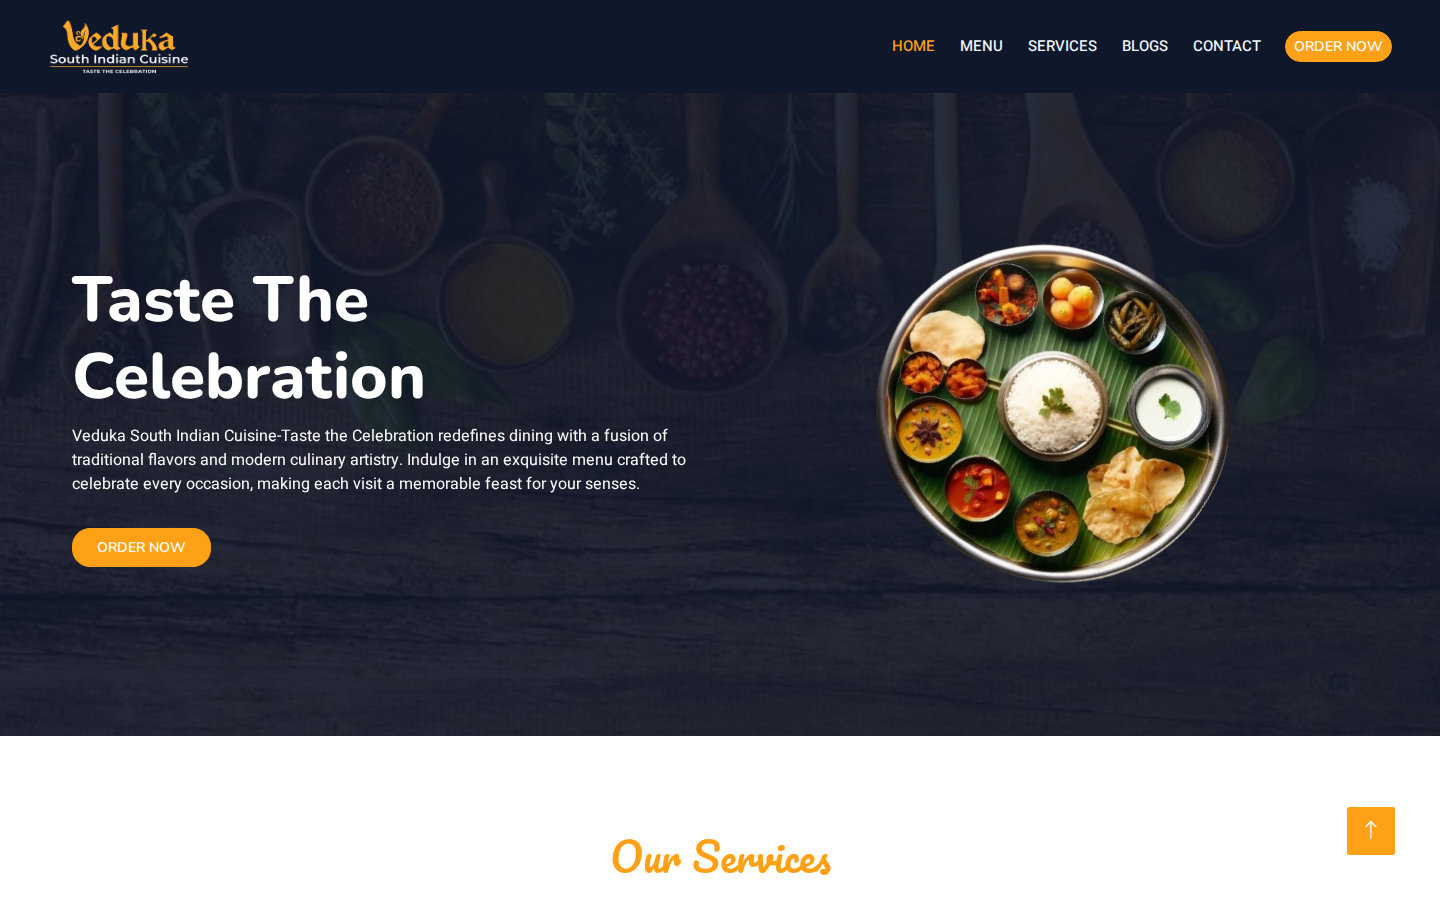
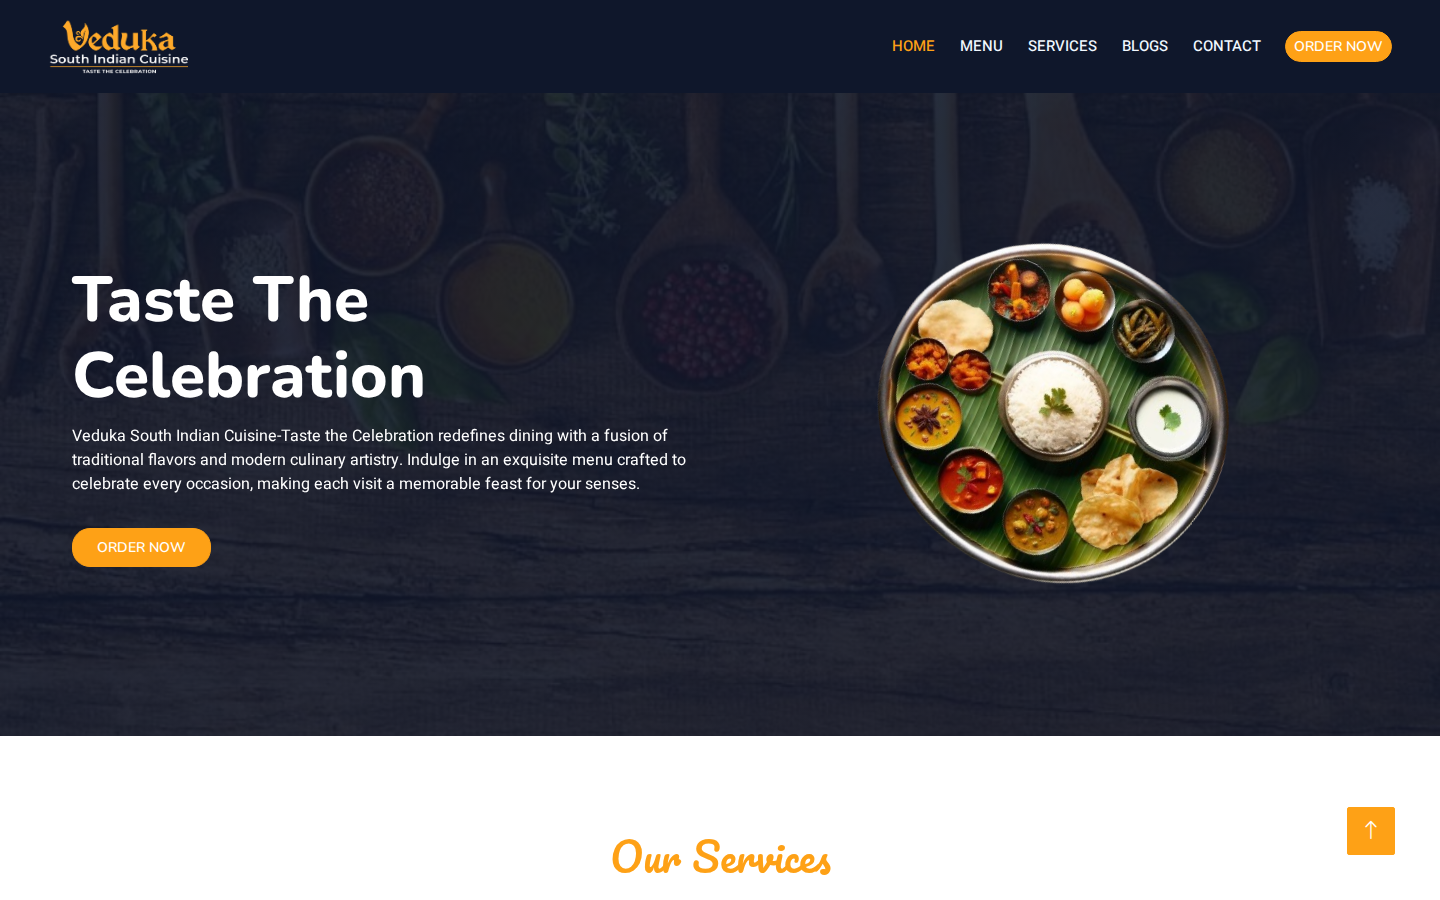
Refine projects and experience per portfolio feedback
Show screenshot-only project previews (no live iframe). Remove TX DESI,
LLM Music Recommendation, NLP4Web, and IBM Data Science entries. Update
German Quiz URL, add CARE open-source contribution, trim experience list,
and simplify Usage AI/ML stack.

Changed region(s): [[0.5938, 0.2489, 0.8438, 0.6533], [0.0625, 0.4044, 0.2188, 0.4356], [0.25, 0.4044, 0.2812, 0.4356]]

diff --git a/app/data/projects.ts b/app/data/projects.ts
@@ -23,7 +23,6 @@ function clientSite(
     slug,
     tagline,
     projectUrl: url,
-    embedUrl: url,
     logo: screenshot,
     coverImage: {
       image: screenshot,
@@ -43,14 +42,6 @@ export const featuredProjects: ProjectType[] = [
     "Corporate site for HR & IT services.",
     "https://hr-it-website.vercel.app/",
     "Marketing and services website for HR IT Solutions—built with modern React/Next.js patterns, responsive layout, and clear service positioning for HR and IT consulting."
-  ),
-  clientSite(
-    "client-tx-desi",
-    "TX DESI Connect",
-    "tx-desi",
-    "Community platform for the Texas desi diaspora.",
-    "https://www.txdesiconnect.com/",
-    "Full-stack community website connecting the Texas desi community—events, resources, and engagement features delivered as a production-ready web app."
   ),
   clientSite(
     "client-archana",
@@ -85,6 +76,29 @@ export const featuredProjects: ProjectType[] = [
     "Corporate web presence for Soltex with service overview, contact sections, and responsive design on Vercel."
   ),
   {
+    _id: "local-care",
+    name: "CARE",
+    slug: "care",
+    tagline: "Open-source collaborative AI-assisted research platform.",
+    projectUrl: "https://github.com/UKPLab/CARE",
+    logo: "/projects/care.svg",
+    coverImage: {
+      image: "/projects/screenshots/care.png",
+      alt: "CARE platform",
+      lqip: placeholderCover.lqip,
+    },
+    description: [
+      paragraph(
+        "Open-source contribution to CARE (Collaborative AI-Assisted Research Environment) at the UKP Lab, TU Darmstadt—an integrated platform for collaborative PDF reading, annotation, writing, assessment, and NLP-assisted research workflows.",
+        "care-1"
+      ),
+      paragraph(
+        "As a student developer I help build real-time collaborative features with Vue.js, Docker, Sequelize, and Socket.io, and work toward integrating intelligent reading assistance into production research tooling. Repository: github.com/UKPLab/CARE.",
+        "care-2"
+      ),
+    ],
+  },
+  {
     _id: "local-llm-workspace",
     name: "llm-workspace",
     slug: "llm-workspace",
@@ -108,83 +122,21 @@ export const featuredProjects: ProjectType[] = [
     ],
   },
   {
-    _id: "local-llm-music",
-    name: "LLM Music Recommendation",
-    slug: "llm-music-recommendation",
-    tagline: "SASRec + LoRA smart shuffle for Spotify.",
-    projectUrl: "https://github.com/akash9676/LLM_Music_Recommendation",
-    logo: "/projects/llm-music.svg",
-    coverImage: {
-      ...placeholderCover,
-      image: "/projects/llm-music.svg",
-      alt: "Music recommendation system",
-    },
-    description: [
-      paragraph(
-        "A hybrid music recommendation system with a FastAPI backend and web frontend. It connects to Spotify via OAuth, syncs liked tracks and listening history, and trains a SASRec sequential recommender with LoRA-style adaptation for personalized Smart Shuffle.",
-        "music-1"
-      ),
-      paragraph(
-        "Recommendations combine SASRec item embeddings with metadata vectors (genres, popularity, duration, release year). Includes caching, rate-limit handling, NDCG@10 / Hit Rate@10 evaluation, and playback controls for Premium devices.",
-        "music-2"
-      ),
-    ],
-  },
-  {
     _id: "local-german-quiz",
     name: "German Quiz",
     slug: "german-quiz",
     tagline: "Interactive German practice built in Next.js.",
-    projectUrl: "https://german-quiz-gules.vercel.app",
-    embedUrl: "https://german-quiz-gules.vercel.app",
+    projectUrl: "https://germanquiz.vercel.app/",
     logo: "/projects/german-quiz.svg",
     coverImage: {
-      ...placeholderCover,
-      image: "/projects/german-quiz.svg",
+      image: "/projects/screenshots/german-quiz.png",
       alt: "German quiz app",
+      lqip: placeholderCover.lqip,
     },
     description: [
       paragraph(
-        "A TypeScript/Next.js quiz app for practicing German—built while living and studying in Darmstadt. Live at german-quiz-gules.vercel.app.",
+        "A TypeScript/Next.js quiz app for practicing German—built while living and studying in Darmstadt. Live at germanquiz.vercel.app.",
         "de-1"
-      ),
-    ],
-  },
-  {
-    _id: "local-nlp1",
-    name: "NLP4Web",
-    slug: "nlp4web",
-    tagline: "Applied NLP coursework and web NLP labs.",
-    projectUrl: "https://github.com/akash9676/NLP1",
-    logo: "/projects/nlp.svg",
-    coverImage: {
-      ...placeholderCover,
-      image: "/projects/nlp.svg",
-      alt: "NLP4Web materials",
-    },
-    description: [
-      paragraph(
-        "Teaching materials and experiments from NLP4Web—covering core natural language processing techniques applied to web-scale text.",
-        "nlp-1"
-      ),
-    ],
-  },
-  {
-    _id: "local-ibm-ds",
-    name: "IBM Data Science",
-    slug: "ibm-data-science",
-    tagline: "Professional certificate labs & notebooks.",
-    projectUrl: "https://github.com/akash9676/IBM-Data-Science",
-    logo: "/projects/ibm.svg",
-    coverImage: {
-      ...placeholderCover,
-      image: "/projects/ibm.svg",
-      alt: "IBM Data Science notebooks",
-    },
-    description: [
-      paragraph(
-        "Coursework and Jupyter notebooks from the IBM Data Science Professional Certificate—data wrangling, visualization, machine learning, and end-to-end analysis.",
-        "ibm-1"
       ),
     ],
   },

diff --git a/app/data/jobs.ts b/app/data/jobs.ts
@@ -1,18 +1,7 @@
 import type { JobType } from "@/types";
 
-/** Work experience and education timeline (newest first). */
+/** Work experience timeline (newest first). */
 export const experienceEntries: JobType[] = [
-  {
-    _id: "local-tud-masters",
-    name: "TU Darmstadt",
-    jobTitle: "M.Sc. Artificial Intelligence and Machine Learning",
-    logo: "/projects/tu-darmstadt.svg",
-    url: "https://www.tu-darmstadt.de/",
-    description:
-      "Master’s studies in Artificial Intelligence and Machine Learning in Darmstadt, Germany. Focus areas include deep learning, LLMs and agentic systems, NLP, computer vision, recommendation models, and applied ML research—paired with extensive use of AI coding agents in coursework and personal projects.",
-    startDate: "2024-10-01",
-    endDate: "",
-  },
   {
     _id: "local-ukp",
     name: "UKP Lab · TU Darmstadt",
@@ -31,7 +20,7 @@ export const experienceEntries: JobType[] = [
     logo: "https://www.google.com/s2/favicons?domain=graspins.com&sz=128",
     url: "https://akash-graspins-com.vercel.app/",
     description:
-      "Led end-to-end web delivery for freelance and client projects using React, Next.js, Node.js, and Tailwind. Shipped production sites including HR IT Solutions, TX DESI Connect, Archana Garments, VIVA Soft, Veduka Restaurant, and Soltex—handling design, development, deployment on Vercel, and ongoing iterations.",
+      "Led end-to-end web delivery for freelance and client projects using React, Next.js, Node.js, and Tailwind. Shipped production sites including HR IT Solutions, Archana Garments, VIVA Soft, Veduka Restaurant, and Soltex—handling design, development, deployment on Vercel, and ongoing iterations.",
     startDate: "2024-04-01",
     endDate: "",
   },
@@ -67,16 +56,5 @@ export const experienceEntries: JobType[] = [
       "Engaged 3,000+ developers across 30 events covering web, DSA, ML, blockchain, and cloud. Led a 5-day web development bootcamp mentoring 200+ participants and coordinated hackathons and tech talks.",
     startDate: "2022-07-04",
     endDate: "2023-08-05",
-  },
-  {
-    _id: "local-feliks",
-    name: "Feliks Club",
-    jobTitle: "Operations Lead",
-    logo: "https://www.google.com/s2/favicons?domain=gnitc.ac.in&sz=128",
-    url: "https://www.gnitc.ac.in/",
-    description:
-      "Ran 20+ technical and non-technical events, coordinated volunteers, and promoted knowledge sharing around emerging technologies.",
-    startDate: "2022-03-02",
-    endDate: "2023-10-03",
   },
 ];

diff --git a/app/data/profile.ts b/app/data/profile.ts
@@ -14,7 +14,7 @@ export const profileContent = {
       "bio-1"
     ),
     paragraph(
-      "Today I focus on agentic AI, LLM tooling, sequential recommendation, computer vision, and NLP. Recent projects include llm-workspace—a portable multi-agent skills and memory workspace for Cursor, Claude Code, and Codex—and an LLM music recommender using SASRec with LoRA fine-tuning. I use AI extensively in day-to-day engineering: coding agents, context engineering, evaluation loops, and model experimentation.",
+      "Today I focus on agentic AI, LLM tooling, NLP, and applied ML. Recent work includes llm-workspace—a portable multi-agent skills and memory workspace for Cursor, Claude Code, and Codex—and open-source contributions to the CARE research platform at UKP Lab. I use AI extensively in day-to-day engineering: coding agents, context engineering, evaluation loops, and model experimentation.",
       "bio-2"
     ),
     paragraph(
@@ -28,7 +28,7 @@ export const profileContent = {
   ],
   usage: [
     paragraph(
-      "AI & Machine Learning:\nPython, PyTorch, TensorFlow/Keras, scikit-learn, Hugging Face, LoRA / PEFT, SASRec, OpenCV, NLP, computer vision, recommendation systems, evaluation metrics (NDCG, Hit Rate), Jupyter, FastAPI.",
+      "AI & Machine Learning:\nPython, PyTorch, Hugging Face, LoRA & fine-tuning, NLP, Jupyter, Transformers (training & testing).",
       "usage-1"
     ),
     paragraph(

diff --git a/app/projects/[project]/page.tsx b/app/projects/[project]/page.tsx
@@ -1,6 +1,6 @@
+import Image from "next/image";
 import { PortableText } from "@portabletext/react";
 import { CustomPortableText } from "@/app/components/shared/CustomPortableText";
-import ProjectSitePreview from "@/app/components/shared/ProjectSitePreview";
 import { Slide } from "../../animation/Slide";
 import { getFeaturedProjects, getProjectBySlug } from "@/lib/content";
 import NotFoundComponent from "@/app/components/shared/NotFound";
@@ -54,12 +54,17 @@ export default function Project({ params }: Props) {
 
           <p className="dark:text-zinc-400 text-zinc-600 mb-6">{project.tagline}</p>
 
-          <ProjectSitePreview
-            name={project.name}
-            embedUrl={project.embedUrl}
-            screenshotSrc={project.coverImage.image}
-            screenshotAlt={project.coverImage.alt || project.name}
-          />
+          <div className="relative w-full aspect-[16/10] mb-8">
+            <Image
+              className="rounded-xl border dark:border-zinc-800 border-zinc-100 object-cover object-top"
+              fill
+              src={project.coverImage.image}
+              alt={project.coverImage.alt || project.name}
+              quality={90}
+              sizes="(max-width: 768px) 100vw, 896px"
+              priority
+            />
+          </div>
 
           <div className="mt-8 dark:text-zinc-400 text-zinc-600 leading-relaxed">
             <PortableText
